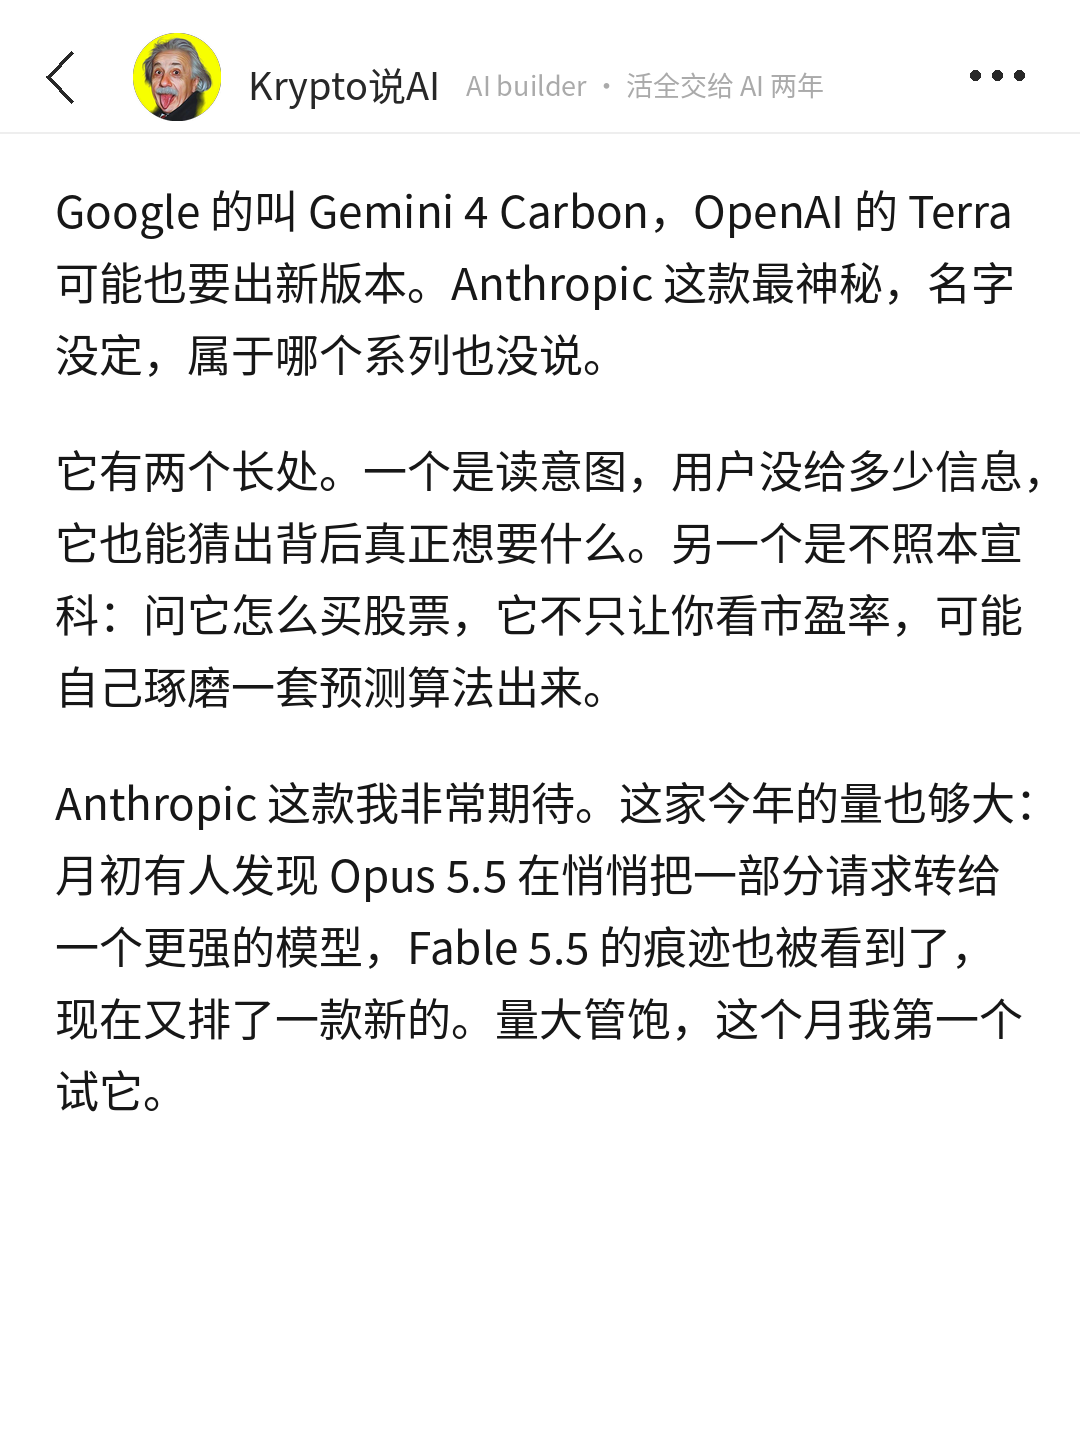
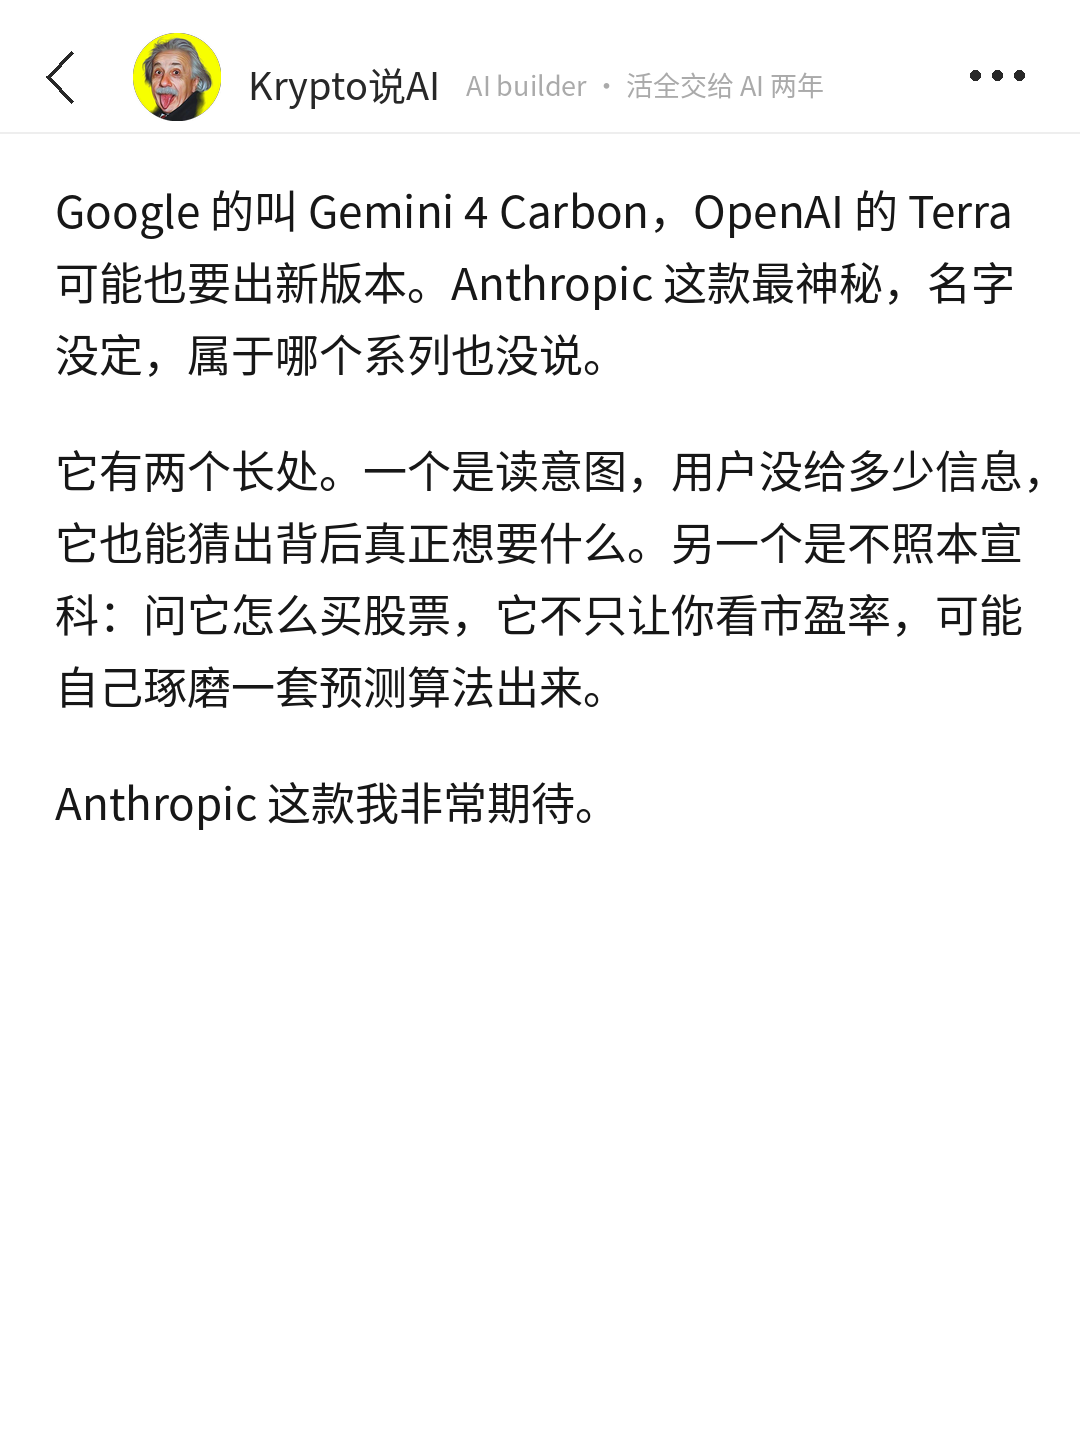
Anthropic 稿五改：删 TestingCatalog 二手观察两句，第 3 页只留一句期待
Claude-Session: https://claude.ai/code/session_01AMNtEXjLouQeh7jZFHjYwS

Changed region(s): [[0.0306, 0.5312, 0.9472, 0.7812], [0.9167, 0.6875, 0.9472, 0.7188]]

diff --git a/CLAUDE.md b/CLAUDE.md
@@ -3,7 +3,7 @@
 这个仓库是小红书账号 **Krypto说AI** 的工作区，也是它的记忆。在这里做的每一篇稿子，先读本页，再读 `账号/档案.md`、`账号/经历库.md` 和 `账号/爆文方法论.md`（10-14 起，选题 / 标题 / 首图 / 原文跟发的发前清单，交付时逐条写过没过）。每次用户说了新的经历、新的观点、新的规则，写回这两份文件并更新本页摘要，不要只留在对话里。
 
 ## 摘要
-- **10-20 Anthropic 新模型爆料稿（meme，热点快评，value 信息，立场 C，发布时间待定，`发布/2026-10-20_anthropic-new-model/`）**：素材是 TestingCatalog 10-19 转 The Information 爆料（Anthropic 本月发新模型，长处是读意图 + 不照本宣科；Gemini 4 Carbon、OpenAI Terra 同月；Opus 5.5 路由、Fable 5.5 痕迹是 TestingCatalog 自己的报道）。用户要短、新闻侧重；10-20 看稿后定改成更短的新闻版（600 字，3 页 + 名片卡）：开头直接说三家十月扎堆发模型，首图用 X 回复里的 wojak 漫画（用户：美式 meme 感可能更火），原文红框截图留正文，一图看懂卡撤掉，长版存 `draft_v2_长版.md`。再改（用户 10-20 二次看稿）：标题不能写成只有 Anthropic 一家（「Anthropic：三家十月扎堆发模型」✗），改「十月扎堆发模型，Anthropic最神秘」，可搜词在前 6 字之外 ⚠ 认了；「爆料」全文只说一次「根据最新爆料」，后面不再「爆料说」，像一直在转述新闻；2、3 页我们自己的观点收缩，整篇就是快速爆料 + 我们保持期待的那一点（读意图），400 字 3 页。改前存 `draft_v3_改标题前.md`。第 3 页再缩成一段（用户：体现非常期待就好，不要说太多）：「我最期待的是第一条……这个月我第一个试它」，删掉「你」那段和局限那段。四改（用户）：① Terra 是 OpenAI 现有系列，原推文写的是「a potential new Terra model」，稿里改成「OpenAI 的 Terra 可能也要出新版本」（The Information 和 TestingCatalog 原文云端打不开，没能再核）；② 首页 meme 图放大当传播工具，render_meme 新增 front matter `hero_max`（默认 480，这篇 760）；③ 第 3 页不写「我最期待的是第一条」这种读者对不上号的指代，直接写「Anthropic 这款我非常期待」+ 量大管饱（Opus 5.5 路由、Fable 5.5 痕迹、再来一款）；原文红框截图挪到最后一页。专名密度 ✗（每千字 68）是用户要的三家名字 + 型号带来的，按用户方向留。写稿前先问没走（用户没在线），立场 / 价值 / 骨架全是默认：stance「模型能猜中你没写进提示词的要求，比会想出新算法值钱；返工都是从没听懂开始的」，反对发帖人「跳出框框才是大事、读意图有点吓人」；「我」只用经历库 #17（最难的活给 Fable 5）、#8（指示明确仍偏）、#20（拍任务 → 让它先给意见）。标题「Anthropic新模型：会猜你没说的」，三条备选都卡在 20 字（英文每字母算一字），没放数字和对比站队句。第 2 页「一图看懂」卡把 Google / OpenAI 放进图里，正文开头三段只留 Anthropic 和 The Information 两个锚点（专名数上限）。render_meme 云端要先 `apt-get update && apt-get install -y fonts-noto-cjk`，否则报 cannot open resource
+- **10-20 Anthropic 新模型爆料稿（meme，热点快评，value 信息，立场 C，发布时间待定，`发布/2026-10-20_anthropic-new-model/`）**：素材是 TestingCatalog 10-19 转 The Information 爆料（Anthropic 本月发新模型，长处是读意图 + 不照本宣科；Gemini 4 Carbon、OpenAI Terra 同月；Opus 5.5 路由、Fable 5.5 痕迹是 TestingCatalog 自己的报道）。用户要短、新闻侧重；10-20 看稿后定改成更短的新闻版（600 字，3 页 + 名片卡）：开头直接说三家十月扎堆发模型，首图用 X 回复里的 wojak 漫画（用户：美式 meme 感可能更火），原文红框截图留正文，一图看懂卡撤掉，长版存 `draft_v2_长版.md`。再改（用户 10-20 二次看稿）：标题不能写成只有 Anthropic 一家（「Anthropic：三家十月扎堆发模型」✗），改「十月扎堆发模型，Anthropic最神秘」，可搜词在前 6 字之外 ⚠ 认了；「爆料」全文只说一次「根据最新爆料」，后面不再「爆料说」，像一直在转述新闻；2、3 页我们自己的观点收缩，整篇就是快速爆料 + 我们保持期待的那一点（读意图），400 字 3 页。改前存 `draft_v3_改标题前.md`。第 3 页再缩成一段（用户：体现非常期待就好，不要说太多）：「我最期待的是第一条……这个月我第一个试它」，删掉「你」那段和局限那段。四改（用户）：① Terra 是 OpenAI 现有系列，原推文写的是「a potential new Terra model」，稿里改成「OpenAI 的 Terra 可能也要出新版本」（The Information 和 TestingCatalog 原文云端打不开，没能再核）；② 首页 meme 图放大当传播工具，render_meme 新增 front matter `hero_max`（默认 480，这篇 760）；③ 第 3 页不写「我最期待的是第一条」这种读者对不上号的指代，直接写「Anthropic 这款我非常期待」+ 量大管饱（Opus 5.5 路由、Fable 5.5 痕迹、再来一款）；原文红框截图挪到最后一页。五改（用户问 Opus 5.5 路由 / Fable 5.5 痕迹的来源）：那两句出自 TestingCatalog 自己的推文串，二手观察，用户定删掉；「这个月我第一个试它」用户说很笨，也删。第 3 页只剩一句「Anthropic 这款我非常期待。」教训：meme 新闻稿里只用主信源的事实，转发者自己的报道不混进去。写稿前先问没走（用户没在线），立场 / 价值 / 骨架全是默认：stance「模型能猜中你没写进提示词的要求，比会想出新算法值钱；返工都是从没听懂开始的」，反对发帖人「跳出框框才是大事、读意图有点吓人」；「我」只用经历库 #17（最难的活给 Fable 5）、#8（指示明确仍偏）、#20（拍任务 → 让它先给意见）。标题「Anthropic新模型：会猜你没说的」，三条备选都卡在 20 字（英文每字母算一字），没放数字和对比站队句。第 2 页「一图看懂」卡把 Google / OpenAI 放进图里，正文开头三段只留 Anthropic 和 The Information 两个锚点（专名数上限）。render_meme 云端要先 `apt-get update && apt-get install -y fonts-noto-cjk`，否则报 cannot open resource
 - **10-19 Jack Clark IMF 讲座稿（meme，观察，框架，立场 A，暂排 10-21，`发布/2026-10-21_jack-clark-imf/`）**：素材是 Jack Clark 10-17 在曼谷 IMF / 世行年会的 Per Jacobsson 讲座（62 年第一次请 AI 公司创始人）+ 印度首席经济顾问的反方。一个颠覆点：50 道未发表理论物理题，模型坚持专家答案错、专家回查真有错、最后 49/50。用户没答写稿前先问，立场 / 价值 / 骨架都是默认，「我」只用经历库 #17（最难的活交给 Claude）、#20（拍任务 → 让它提意见，正在转）。视频截图：云端 YouTube 拦下载（视频流 403，要 PO token），storyboard 只有 320×180；用户在 Mac 上截了三张，首页用大屏头像卡（眼睛睁着），另两张右下角讲台小窗里 Jack 低头闭眼，裁成只剩幻灯片。以后要视频截图直接请用户在 Mac 截，给时间点。**用户看稿后定（10-19）**：① 首页开头直接进素材里的事，不用「我把活交给 Claude」这类「我」的铺垫起笔；② 引入别固化成「我看了 / 我刚读了」，要换着用（周末读了、朋友推荐等，「朋友推荐」只在真有其事时用，不编）；③ 信息密度大的稿，前两页就要有插图 / 可视化（这篇第 2 页加了「一图看懂」卡）；④ 标题要有情绪和转折感，光有人名 + 数字不够（主标题改成「Anthropic联创：专家竟被AI纠错」）。还没改进 skill，规则冻结到 10-21，到期一起议
 - **10-19 LobsterAI 办公 Agent 报告稿（meme，观察，价值框架，立场 C，排 10-21 18:00，10-19 晚改方向 A，待用户看）**：素材是 LobsterAI《中国办公 Agent 用户行为报告》9 月版长图（只有 227px 宽，原图待用户补）+ 铁锤人 @lxfater 10-19 推特 thread。stance 反对 thread 原句「还变成新一代普通人学编程的夜校」：假期晚上写代码的还是原来会写的人（泛编程本来占四成任务）；一个模型够不够看交出去几种活。用户回答进经历库 #27（美股宏观监控、高尔夫动作教练都用 Claude Code 做；没看过缓存）#28（开始用 WorkBuddy 做微信生态）、观点库 #25。thread 把 V4.1 Flash / V4 Flash 的缓存数串了，「牛来营销」是他的推测，稿里都没用。「微信」被 meme_check 判站外导流，稿里写「腾讯生态」。标题用户 10-19 改成情绪 + 名字：首页 headline「LobsterAI：听说你们下班偷偷学AI？」，标题.txt 压到 20 字「LobsterAI：听说你下班偷学AI？」，主关键词改 LobsterAI。用户 10-19 定两条写作规则：形容词也用双字（第 12 条）；开头不替读者预设情绪（「第一反应多半是焦虑……其实用不着焦虑」像 AI），直接从信源反常的事实起笔，撤回 10-14「第二句是读者的焦虑」（writing_guide 第 3 节、爆文方法论第三节、meme-xhs SKILL）；别人不深入人心的比喻（「夜校」）只引原话一次，不拿来当全文意象（writing_guide 反面清单）；Echo 三样第 ② 条改成潜移默化：不写「如果你……这篇想讲清楚一件事」，用一句跟读者处境有关的事实让他自己对上号（writing_guide 6.10）。**10-19 晚用户说「食之无味」，改方向 A**：主线从反驳「夜校」换成「七成普通用户只用一个模型」，骨架是用户五个工具各一件真事（Claude 拆计划 / Codex 定时任务翻车 / Grok 早报 / DeepSeek 接 SayType / WorkBuddy 做小程序，经历库 #13 #9 #18 #24 #28），stance「一个模型够不够用取决于交出去几种活，挑模型看活不看榜单」（立场 C），图下正文给可照抄的分工卡；标题「LobsterAI：一个模型真的不够用」。教训：主线是反驳一件「还没发生」的事，读者读完拿不走东西。10-20 按小盖第十批改：开头加「在场的一句」（国内大厂做产品的朋友推荐 WorkBuddy 做小程序，经历库 #28）、加「读者直觉 → 翻过来」（挑一个最强的模型什么活都交给它就够了 → 我的体会不太一样），标题改认知差句「看来很多人没读懂LobsterAI报告。」。**10-20 用户要求按对标稿格式重写**（`对标/未署名_JackClark奇点稿/`）：评论员式连贯短文，不再编号；开头判断 + 分量 → 关键数 → 「你可以不在意用哪家模型，但用得多的人已经在按活分工」→ 放回整份报告（单次任务量半年涨三倍多）→ 拆「多模型 = 挑冠军」的误解 → 用户五个工具当证据 → 缓存账单 → 读者该留意什么 → 问读者 + 自己的答案「先数活，再挑模型」。删掉素材里没有的「不写代码的人用得最多的是整理数据和表格」（报告只有假期份额 −2.9）。改前存 `draft_v9_改格式前.md`，940 字 7 页
 - **10-18 晚 对标 Echo note 回响阅览室，学了三样（用户定「写进 skills」，`对标/Echo note回响阅览室/拆解.md`）**：用户说稿子「像转述、没有个人 IP」。Echo 做海外播客精读，素材全是别人的却不像搬运，靠首尾一个「我」的框。写进 meme-xhs SKILL + writing_guide 6.10、own-xhs、爆文方法论发前清单 2.6：① 首页「我最想说的一件事是：（stance）」，用户真改变过看法才写「改观」；② 紧跟点名读者 + 承诺；③ 结尾「以前 / 现在」（用户真实变化）+ 两类读者各一句。不进 meme_check，验证稿待 3 篇（Anthropic 就业稿 10-18 19:15 实际发出去的是试三样之前的版本，不算，下一篇起算）。节尾加粗对仗金句不学（10-02 被认出 AI 的句式）；标题用「情绪 + 人名 / 模型名 / 信源」（用户 10-18 晚定，如「强烈推荐看看Anthropic就业报告。」），不写只有情绪没名字的，备选三条至少一条用这种

diff --git a/发布/2026-10-20_anthropic-new-model/meme版/编辑用/draft.md b/发布/2026-10-20_anthropic-new-model/meme版/编辑用/draft.md
@@ -23,6 +23,6 @@ Google 的叫 Gemini 4 Carbon，OpenAI 的 Terra 可能也要出新版本。Anth
 
 它有两个长处。一个是读意图，用户没给多少信息，它也能猜出背后真正想要什么。另一个是不照本宣科：问它怎么买股票，它不只让你看市盈率，可能自己琢磨一套预测算法出来。
 
-Anthropic 这款我非常期待。这家今年的量也够大：月初有人发现 Opus 5.5 在悄悄把一部分请求转给一个更强的模型，Fable 5.5 的痕迹也被看到了，现在又排了一款新的。量大管饱，这个月我第一个试它。
+Anthropic 这款我非常期待。
 
 ![The Information 的原话](newsletter_box.png)
